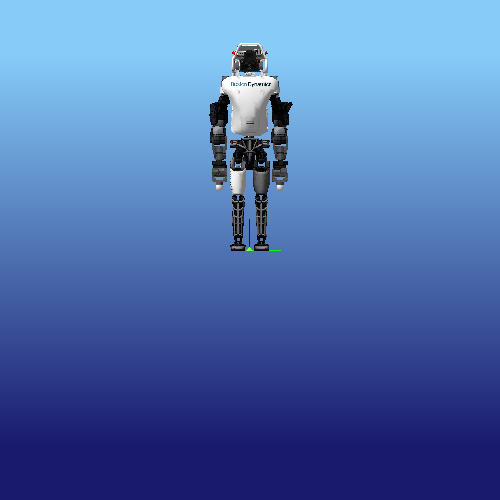
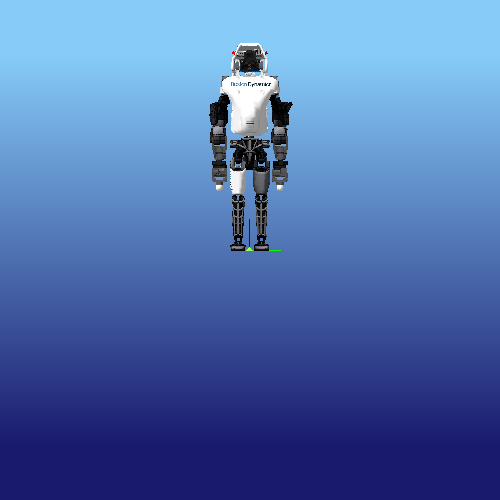
[python/viewer] Use physics-based shader on Intel GPU with Panda3d.

diff --git a/python/jiminy_py/src/jiminy_py/viewer/panda3d/panda3d_visualizer.py b/python/jiminy_py/src/jiminy_py/viewer/panda3d/panda3d_visualizer.py
@@ -162,7 +162,6 @@ def make_gradient_skybox(sky_color: Tuple3FType,
     prism.set_bin("background", 0)
     prism.set_depth_write(False)
     prism.set_depth_test(False)
-    prism.set_light_off()
 
     return prism
 
@@ -276,7 +275,6 @@ class Panda3dApp(panda3d_viewer.viewer_app.ViewerApp):
         config.set_value('window-type', 'offscreen')
         config.set_value('default-near', 0.1)
         config.set_value('gl-version', '3 1')
-        config.set_value('copy-texture-inverted', '1')
         config.set_value('notify-level', 'fatal')
         config.set_value('notify-level-x11display', 'fatal')
         config.set_value('notify-level-device', 'fatal')
@@ -299,7 +297,7 @@ class Panda3dApp(panda3d_viewer.viewer_app.ViewerApp):
         # Disable the task manager loop for now. Only useful if onscreen.
         self.shutdown()
 
-        # Active enhanced rendering if dedicated NVIDIA GPU is used.
+        # Active enhanced rendering if discrete NVIDIA GPU is used.
         # Note that shadow resolution larger than 1024 significantly affects
         # the frame rate on Intel GPU chipsets: going from 1024 to 2048 makes
         # it drop from 60FPS to 30FPS.
@@ -315,20 +313,13 @@ class Panda3dApp(panda3d_viewer.viewer_app.ViewerApp):
         self._spotlight = self.config.GetBool('enable-spotlight', False)
         self._lights_mask = [True, True]
 
-        # Use default shader for everything on the scene by default.
+        # Create physics-based shader and adapt lighting accordingly.
+        # It slows down the rendering by about 30% on discrete NVIDIA GPU.
         # Note that EGL graphical pipeline does not support shader for now.
-        is_headless = self.pipe.get_type().name != "eglGraphicsPipe"
-        if is_headless:
-            self.render.set_shader_auto(True)
-
-        # Create physics-based shader if using discrete NVIDIA gpu and EGL
-        # driver is not used. Then, adapt lighting accordingly.
-        self._pbr_shader = None
-        if not is_headless and self.win.gsg.driver_vendor.startswith('NVIDIA'):
+        if self.pipe.get_type().name != "eglGraphicsPipe":
             shader_options = {
-                'MAX_LIGHTS': 2,
-                'USE_NORMAL_MAP': '',
                 'ENABLE_SHADOWS': '',
+                'USE_EMISSION_MAP': '',
                 'USE_OCCLUSION_MAP': ''
             }
             pbr_vert = simplepbr._load_shader_str(
@@ -337,7 +328,7 @@ class Panda3dApp(panda3d_viewer.viewer_app.ViewerApp):
                 'simplepbr.frag', shader_options)
             pbrshader = Shader.make(
                 Shader.SL_GLSL, vertex=pbr_vert, fragment=pbr_frag)
-            self._pbr_shader = ShaderAttrib.make(pbrshader)
+            self.render.set_attrib(ShaderAttrib.make(pbrshader))
             self._lights = [self._make_light_ambient((0.6, 0.6, 0.6)),
                             self._make_light_direct(
                                 1, (0.7, 0.7, 0.7), pos=(8.0, -8.0, 10.0))]
@@ -350,7 +341,7 @@ class Panda3dApp(panda3d_viewer.viewer_app.ViewerApp):
         self._camera_defaults = CAMERA_POS_DEFAULT
         self.reset_camera(*self._camera_defaults)
 
-        # Define clock. It will be used later to limit framerate.
+        # Define clock. It will be used later to limit framerate
         self.clock = ClockObject.get_global_clock()
         self.framerate = None
 
@@ -370,6 +361,9 @@ class Panda3dApp(panda3d_viewer.viewer_app.ViewerApp):
         sky_color = (0.53, 0.8, 0.98, 1.0)
         ground_color = (0.1, 0.1, 0.43, 1.0)
         self.skybox = make_gradient_skybox(sky_color, ground_color, 0.7)
+        if self.pipe.get_type().name != "eglGraphicsPipe":
+            self.skybox.set_shader_auto(True)
+        self.skybox.set_light_off()
         self.skybox.hide(self.LightMask)
 
         # The background needs to be parented to an intermediary node to which
@@ -458,9 +452,6 @@ class Panda3dApp(panda3d_viewer.viewer_app.ViewerApp):
         self.show_axes(True)
         self.show_grid(False)
         self.show_floor(True)
-
-        # Force rendering the scene to finalize initialization of the GSG
-        self.graphics_engine.render_frame()
 
     def has_gui(self) -> bool:
         return any(isinstance(win, GraphicsWindow) for win in self.winList)
@@ -553,7 +544,7 @@ class Panda3dApp(panda3d_viewer.viewer_app.ViewerApp):
         flags = GraphicsPipe.BF_refuse_window | GraphicsPipe.BF_refuse_parasite
         flags |= GraphicsPipe.BF_resizeable
 
-        # Create new offscreen buffer and attach a texture
+        # Create new offscreen buffer and attach a texture.
         # Note that it is impossible to create resizeable buffer without an
         # already existing host for some reason...
         win = self.graphicsEngine.make_output(
@@ -580,6 +571,15 @@ class Panda3dApp(panda3d_viewer.viewer_app.ViewerApp):
 
         # Adjust aspect ratio
         self._adjust_offscreen_window_aspect_ratio()
+
+        # Force rendering the scene to finalize initialization of the GSG
+        self.graphics_engine.render_frame()
+
+        # The buffer must be flipped upside-down manually because using the
+        # global option `copy-texture-inverted` distorts the shadows of the
+        # onscreen window for some reason. Moreover, it must be done after
+        # calling `render_frame` at least once.
+        self.buff.inverted = True
 
     def _adjust_offscreen_window_aspect_ratio(self) -> None:
         """Adjust aspect ratio of offscreen window.
@@ -787,6 +787,8 @@ class Panda3dApp(panda3d_viewer.viewer_app.ViewerApp):
         if self.win.gsg.driver_vendor.startswith('NVIDIA'):
             node.set_render_mode_thickness(4)
         node.set_antialias(AntialiasAttrib.MLine)
+        if self.pipe.get_type().name != "eglGraphicsPipe":
+            node.set_shader_auto(True)
         node.set_light_off()
         node.hide(self.LightMask)
         node.set_scale(0.3)
@@ -827,6 +829,8 @@ class Panda3dApp(panda3d_viewer.viewer_app.ViewerApp):
         node.set_two_sided(True)
 
         # Enable default shader but disable light casting
+        if self.pipe.get_type().name != "eglGraphicsPipe":
+            node.set_shader_auto(True)
         node.hide(self.LightMask)
 
         # Adjust frustum of the lights to project shadow over the whole scene
@@ -919,6 +923,8 @@ class Panda3dApp(panda3d_viewer.viewer_app.ViewerApp):
         if self.win.gsg.driver_vendor.startswith('NVIDIA'):
             node.set_render_mode_thickness(4)
         node.set_antialias(AntialiasAttrib.MLine)
+        if self.pipe.get_type().name != "eglGraphicsPipe":
+            node.set_shader_auto(True)
         node.set_light_off()
         node.hide(self.LightMask)
         self.append_node(root_path, name, node, frame)
@@ -1237,8 +1243,6 @@ class Panda3dApp(panda3d_viewer.viewer_app.ViewerApp):
                 node.clear_texture()
                 node.clear_material()
             super().set_material(root_path, name, color, texture_path)
-            if self._pbr_shader is not None:
-                node.set_attrib(self._pbr_shader)
             if color is None:
                 node.clear_color()
 
@@ -1329,7 +1333,7 @@ class Panda3dApp(panda3d_viewer.viewer_app.ViewerApp):
         self.camera_lookat = np.asarray(pos)
 
     def set_window_size(self, width: int, height: int) -> None:
-        self.buff.setSize(width, height)
+        self.buff.set_size(width, height)
         self._adjust_offscreen_window_aspect_ratio()
 
     def set_framerate(self, framerate: Optional[float] = None) -> None:
@@ -1364,6 +1368,10 @@ class Panda3dApp(panda3d_viewer.viewer_app.ViewerApp):
         image = PNMImage()
         if not self.buff.get_screenshot(image):
             return False
+
+        # Flip the image if the buffer is also flipped to revert the effect
+        if self.buff.inverted:
+            image.flip(flip_x=False, flip_y=True, transpose=False)
 
         # Remove alpha if format does not support it
         if not filename.lower().endswith('.png'):
@@ -1405,7 +1413,7 @@ class Panda3dApp(panda3d_viewer.viewer_app.ViewerApp):
         # Extract raw array buffer from texture
         image = texture.get_ram_image_as(requested_format)
 
-        # Return raw texture if requested
+        # Return raw buffer if requested
         if raw:
             return image.get_data()
 

diff --git a/python/jiminy_py/src/jiminy_py/viewer/viewer.py b/python/jiminy_py/src/jiminy_py/viewer/viewer.py
@@ -2136,7 +2136,7 @@ class Viewer:
 
         .. note::
             Specifying 'udpate_hook' is necessary to be able to display sensor
-            information usch as contact forces. It will be automatically
+            information such as contact forces. It will be automatically
             disable otherwise.
 
         .. warning::
